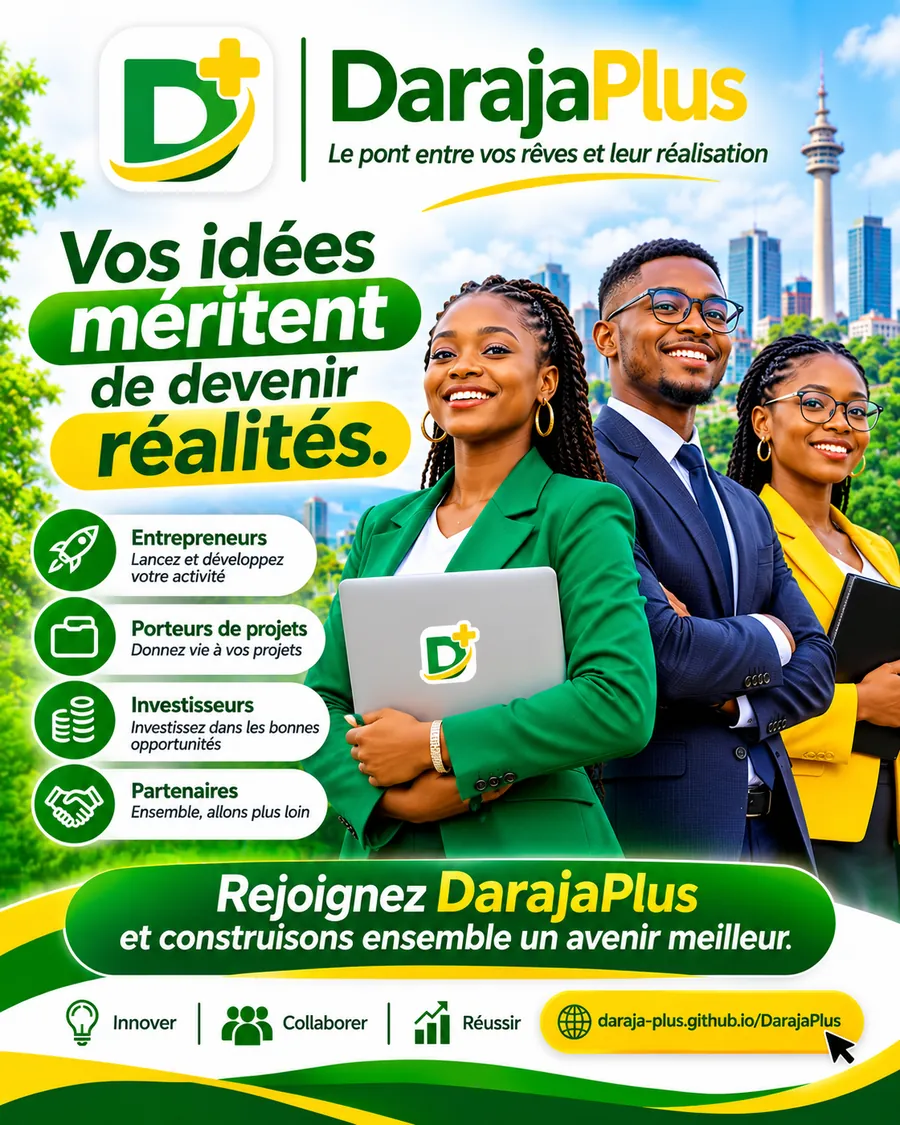
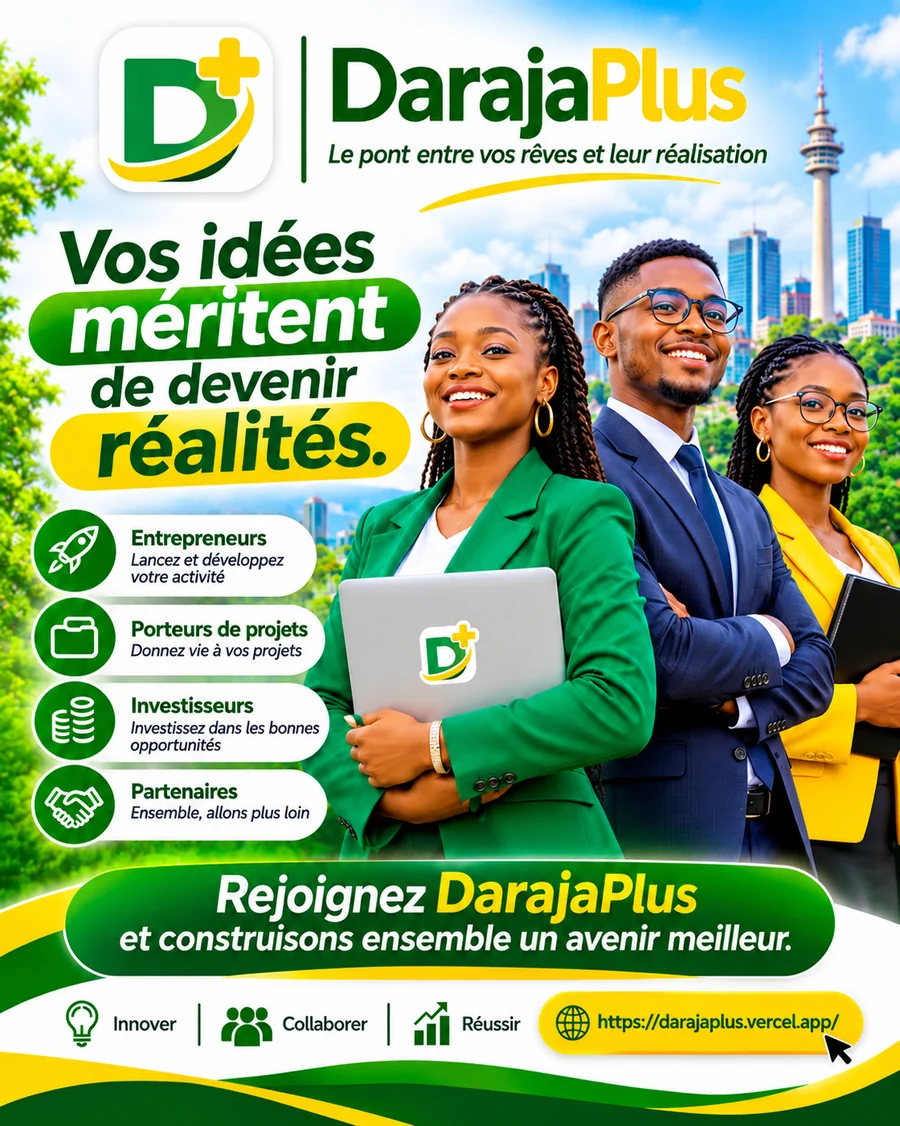
Accueil : nouvelle affiche avec le lien du site
Remplace l'affiche de l'accueil (WebP 900 px de large, hauteur ajustée à 1126).

Claude-Session: https://claude.ai/code/session_01JTos7oWnZsm2oonMdtKzDG

diff --git a/js/public.js b/js/public.js
@@ -101,7 +101,7 @@
             '<div class="btn-row"><a class="btn btn-primary" href="#/inscription">Créer mon compte</a>' +
             '<a class="btn btn-outline" href="#/connexion">Se connecter</a></div>' +
           '</div>' +
-          '<div class="hero-art"><img class="hero-poster" src="assets/affiche-daraja-plus.webp" alt="Affiche DarajaPlus : Vos idées méritent de devenir réalités. Entrepreneurs, porteurs de projets, investisseurs et partenaires, ensemble." width="900" height="1125" fetchpriority="high"></div></section>' +
+          '<div class="hero-art"><img class="hero-poster" src="assets/affiche-daraja-plus.webp" alt="Affiche DarajaPlus : Vos idées méritent de devenir réalités. Entrepreneurs, porteurs de projets, investisseurs et partenaires, ensemble." width="900" height="1126" fetchpriority="high"></div></section>' +
           '<h2>Découvrir DarajaPlus</h2>' +
           '<div class="rubric-grid">' + RUBRICS.map(function (r) {
             return '<a class="rubric" href="' + r[2] + '"><span class="rubric-icon" aria-hidden="true">' + r[0] + '</span>' +
